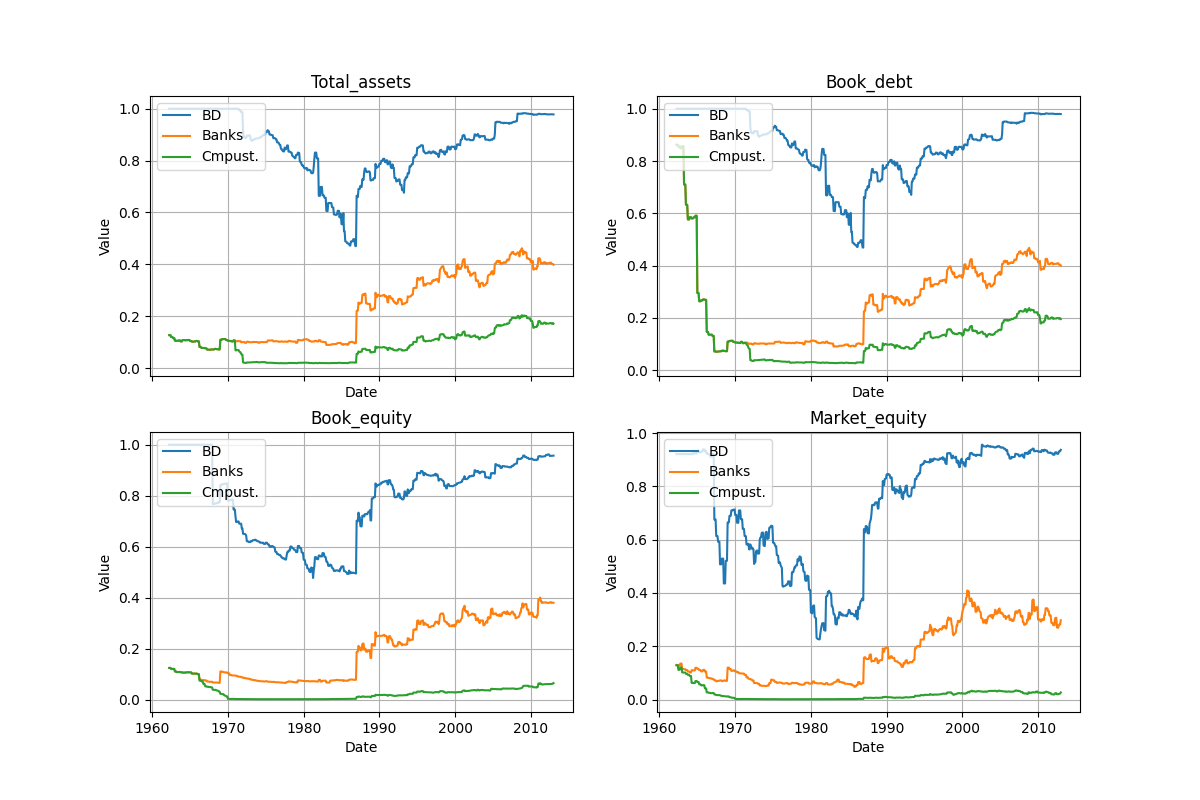
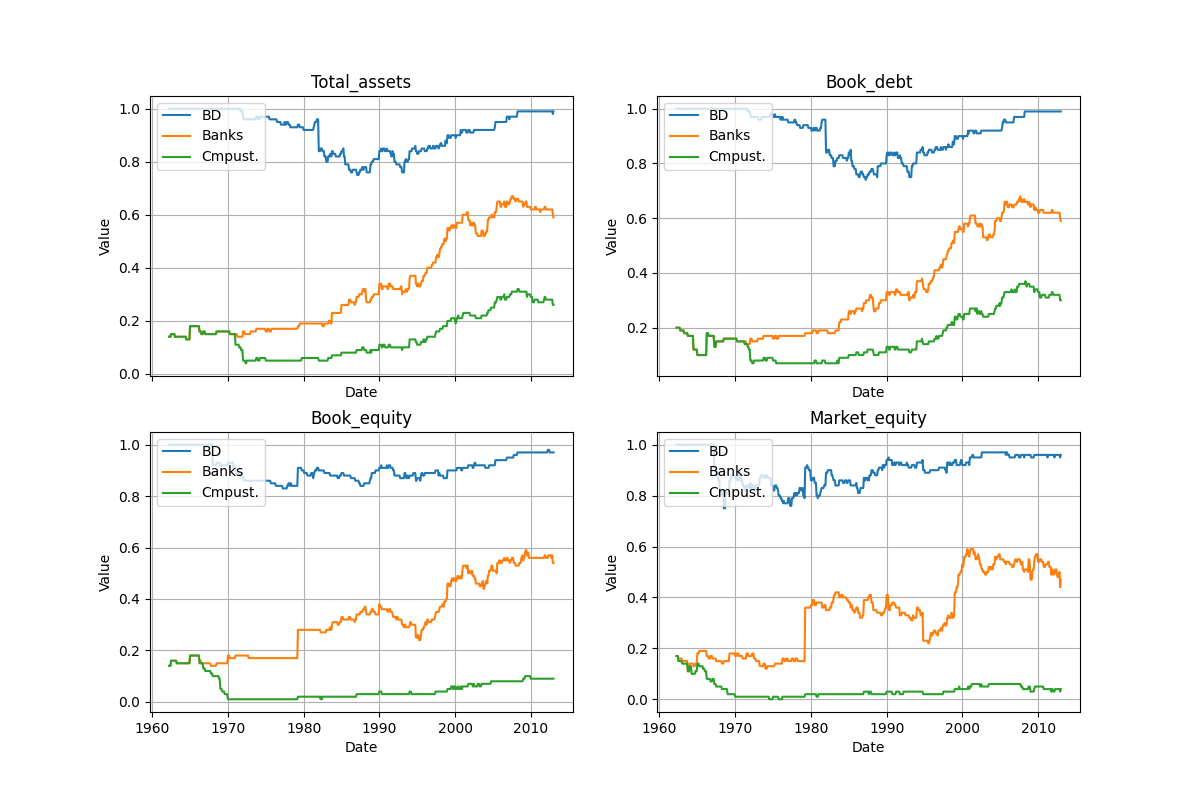
main

diff --git a/output/combined_document.tex b/output/combined_document.tex
@@ -97,9 +97,9 @@ Metric & \multicolumn{3}{r}{Total assets} & \multicolumn{3}{r}{Book debt} & \mul
 Source & BD & Banks & Cmpust. & BD & Banks & Cmpust. & BD & Banks & Cmpust. & BD & Banks & Cmpust. \\
 Period &  &  &  &  &  &  &  &  &  &  &  &  \\
 \midrule
-1960-2012 & 0.895 & 0.329 & 0.142 & 0.894 & 0.333 & 0.168 & 0.897 & 0.312 & 0.053 & 0.892 & 0.325 & 0.038 \\
-1960-1990 & 0.903 & 0.188 & 0.095 & 0.902 & 0.190 & 0.115 & 0.888 & 0.217 & 0.048 & 0.857 & 0.239 & 0.037 \\
-1990-2012 & 0.883 & 0.507 & 0.200 & 0.882 & 0.512 & 0.232 & 0.906 & 0.433 & 0.057 & 0.932 & 0.437 & 0.039 \\
+1960-2012 & 0.910 & 0.340 & 0.140 & 0.910 & 0.340 & 0.170 & 0.900 & 0.320 & 0.050 & 0.900 & 0.330 & 0.040 \\
+1960-1990 & 0.910 & 0.190 & 0.090 & 0.910 & 0.190 & 0.110 & 0.890 & 0.230 & 0.050 & 0.860 & 0.240 & 0.040 \\
+1990-2012 & 0.900 & 0.510 & 0.210 & 0.900 & 0.520 & 0.240 & 0.920 & 0.450 & 0.060 & 0.940 & 0.440 & 0.040 \\
 \bottomrule
 \end{tabular}
 
@@ -117,9 +117,9 @@ Metric & \multicolumn{3}{r}{Total assets} & \multicolumn{3}{r}{Book debt} & \mul
 Source & BD & Banks & Cmpust. & BD & Banks & Cmpust. & BD & Banks & Cmpust. & BD & Banks & Cmpust. \\
 Period &  &  &  &  &  &  &  &  &  &  &  &  \\
 \midrule
-1960-2024 & 0.912 & 0.381 & 0.166 & 0.911 & 0.385 & 0.193 & 0.911 & 0.360 & 0.061 & 0.903 & 0.368 & 0.038 \\
-1960-1990 & 0.903 & 0.188 & 0.095 & 0.902 & 0.190 & 0.115 & 0.888 & 0.217 & 0.048 & 0.857 & 0.239 & 0.037 \\
-1990-2024 & 0.915 & 0.545 & 0.223 & 0.914 & 0.549 & 0.258 & 0.928 & 0.480 & 0.072 & 0.937 & 0.479 & 0.039 \\
+1960-2024 & 0.910 & 0.340 & 0.140 & 0.910 & 0.340 & 0.170 & 0.900 & 0.320 & 0.050 & 0.900 & 0.330 & 0.040 \\
+1960-1990 & 0.910 & 0.190 & 0.090 & 0.910 & 0.190 & 0.110 & 0.890 & 0.230 & 0.050 & 0.860 & 0.240 & 0.040 \\
+1990-2024 & 0.900 & 0.510 & 0.210 & 0.900 & 0.520 & 0.240 & 0.920 & 0.450 & 0.060 & 0.940 & 0.440 & 0.040 \\
 \bottomrule
 \end{tabular}
 
@@ -143,22 +143,6 @@ After the data preparation, we calculated the capital ratios and transformed the
 Next, we processed macroeconomic indicators such as earnings-to-price ratio (E/P), unemployment rate, financial conditions index, Real GDP and GDP growth, market excess returns, and market volatility. The E/P ratio is downloaded from a Shiller dataset, with the URL containing the most recently updated data. The market excess return is fetched from Fama-French research datasets, calculated as SPY returns minus the risk-free rate. Like the ratio and factor datasets, the macro dataset begins from a year before 1970 for the subsequent factor and growth rate computations.
 
 Finally, we calibrated Panel A and B correlations to examine the relationships between the intermediary capital ratios and macroeconomic variables. Panel A focuses on the levels of financial ratios and macroeconomic variables, and Panel B focuses on the factors derived from the financial ratios and their growth rates. We summarize our findings into tables for Panel A and B, alongside a figure illustrating how the capital ratios have shifted over time. All time series are standardized to zero mean and unit variance for illustration. We get our final table, which is converted to LaTeX and outputted to a .tex file.
-\begin{table}
-\caption{The Chicago Fed National Financial Conditions Index (NFCI) starts from 1971. The others start from 1970.}
-\label{tab:Table 2.1}
-\begin{tabular}{lrrrrrrrrr}
-\toprule
- & Market capital factor & Book capital factor & AEM leverage factor & E/P growth & Unemployment growth & Financial conditions growth & GDP growth & Market excess return & Market volatility growth \\
-\midrule
-count & 172.00 & 172.00 & 172.00 & 172.00 & 172.00 & 172.00 & 172.00 & 172.00 & 172.00 \\
-mean & -0.01 & -0.00 & 0.01 & -0.00 & 0.00 & -0.04 & 0.01 & 0.00 & -0.00 \\
-std & 0.26 & 0.11 & 0.19 & 0.07 & 0.05 & 0.77 & 0.01 & 0.04 & 1.65 \\
-min & -0.62 & -0.35 & -0.45 & -0.20 & -0.09 & -4.52 & -0.02 & -0.13 & -4.55 \\
-max & 1.61 & 0.62 & 1.66 & 0.31 & 0.23 & 2.21 & 0.04 & 0.11 & 4.49 \\
-\bottomrule
-\end{tabular}
-\end{table}
-
 
     \begin{table}[htbp]
     \centering
@@ -171,28 +155,28 @@ max & 1.61 & 0.62 & 1.66 & 0.31 & 0.23 & 2.21 & 0.04 & 0.11 & 4.49 \\
         \midrule
          & Market capital & Book capital & AEM leverage \\
         \midrule
-        Market capital & 1.0 & 0.44 & -0.1 \\
-Book capital &  & 1.0 & 0.48 \\
+        Market capital & 1.0 & 0.5 & 0.52 \\
+Book capital &  & 1.0 & 0.2 \\
 AEM leverage &  &  & 1.0 \\
-E/P & -0.19 & 0.57 & 0.76 \\
-Unemployment & -0.19 & 0.47 & 0.31 \\
-GDP & -0.09 & -0.49 & -0.71 \\
-Financial conditions & -0.26 & 0.3 & 0.43 \\
-Market volatility & -0.04 & 0.06 & 0.11 \\
+E/P & -0.78 & -0.53 & -0.63 \\
+Unemployment & -0.56 & -0.05 & -0.34 \\
+GDP & 0.48 & 0.35 & 0.71 \\
+Financial conditions & -0.5 & -0.48 & -0.26 \\
+Market volatility & 0.0 & -0.13 & 0.33 \\
         \midrule
         Panel B: Correlation of Factors \\
         \midrule
          & Market capital & Book capital & AEM leverage \\
         \midrule
-        Market capital factor & 1.0 & 0.44 & -0.11 \\
-Book capital factor &  & 1.0 & 0.1 \\
+        Market capital factor & 1.0 & 0.52 & 0.14 \\
+Book capital factor &  & 1.0 & 0.03 \\
 AEM leverage factor &  &  & 1.0 \\
-Market excess return & 0.14 & 0.14 & -0.02 \\
-E/P growth & -0.35 & -0.01 & 0.28 \\
-Unemployment growth & -0.0 & 0.13 & 0.11 \\
-GDP growth & -0.04 & -0.08 & -0.11 \\
-Financial conditions growth & -0.13 & 0.02 & 0.09 \\
-Market volatility growth & -0.09 & 0.05 & -0.11 \\
+Market excess return & 0.25 & -0.02 & -0.06 \\
+E/P growth & -0.35 & 0.02 & -0.22 \\
+Unemployment growth & -0.1 & -0.06 & -0.07 \\
+GDP growth & 0.06 & -0.02 & 0.06 \\
+Financial conditions growth & -0.04 & -0.08 & -0.07 \\
+Market volatility growth & -0.34 & -0.16 & -0.08 \\
         \bottomrule
     \end{tabular}
     \end{adjustbox}
@@ -210,28 +194,28 @@ Market volatility growth & -0.09 & 0.05 & -0.11 \\
         \midrule
          & Market capital & Book capital & AEM leverage \\
         \midrule
-        Market capital & 1.0 & 0.36 & -0.05 \\
-Book capital &  & 1.0 & 0.38 \\
+        Market capital & 1.0 & 0.48 & 0.48 \\
+Book capital &  & 1.0 & 0.08 \\
 AEM leverage &  &  & 1.0 \\
-E/P & -0.1 & 0.36 & 0.75 \\
-Unemployment & -0.13 & 0.24 & 0.3 \\
-GDP & -0.2 & -0.09 & -0.61 \\
-Financial conditions & -0.2 & 0.19 & 0.46 \\
-Market volatility & -0.06 & 0.08 & 0.08 \\
+E/P & -0.78 & -0.6 & -0.55 \\
+Unemployment & -0.55 & -0.29 & -0.26 \\
+GDP & 0.49 & 0.71 & 0.44 \\
+Financial conditions & -0.53 & -0.47 & -0.25 \\
+Market volatility & -0.03 & -0.08 & 0.28 \\
         \midrule
         Panel B: Correlation of Factors \\
         \midrule
          & Market capital & Book capital & AEM leverage \\
         \midrule
-        Market capital factor & 1.0 & 0.44 & -0.1 \\
-Book capital factor &  & 1.0 & 0.11 \\
+        Market capital factor & 1.0 & 0.49 & 0.1 \\
+Book capital factor &  & 1.0 & 0.01 \\
 AEM leverage factor &  &  & 1.0 \\
-Market excess return & 0.17 & 0.13 & -0.01 \\
-E/P growth & -0.35 & -0.02 & 0.25 \\
-Unemployment growth & -0.02 & 0.03 & 0.08 \\
-GDP growth & -0.0 & -0.04 & -0.08 \\
-Financial conditions growth & -0.1 & 0.03 & 0.08 \\
-Market volatility growth & -0.1 & 0.03 & -0.1 \\
+Market excess return & 0.26 & -0.03 & -0.04 \\
+E/P growth & -0.37 & 0.03 & -0.19 \\
+Unemployment growth & -0.07 & -0.03 & -0.05 \\
+GDP growth & 0.06 & -0.0 & 0.05 \\
+Financial conditions growth & -0.03 & -0.05 & -0.04 \\
+Market volatility growth & -0.34 & -0.17 & -0.04 \\
         \bottomrule
     \end{tabular}
     \end{adjustbox}

diff --git a/output/updated_table02_sstable.tex b/output/updated_table02_sstable.tex
@@ -6,28 +6,28 @@
  &  & total assets & book debt & book equity & market equity \\
 Key & index &  &  &  &  \\
 \midrule
-{BD} & count & 5891.00 & 5891.00 & 5891.00 & 5891.00 \\
- & mean & 9701.76 & 9169.61 & 513.92 & 613.34 \\
- & std & 39946.40 & 38451.32 & 1609.90 & 1852.84 \\
- & min & 0.00 & 0.00 & -2399.54 & 0.00 \\
+{BD} & count & 5244.00 & 5238.00 & 5323.00 & 4871.00 \\
+ & mean & 10898.75 & 10312.75 & 568.76 & 741.78 \\
+ & std & 42185.10 & 40633.33 & 1684.40 & 2014.14 \\
+ & min & 0.00 & 0.00 & -2399.54 & 0.05 \\
  & max & 451566.00 & 434036.00 & 17530.00 & 24890.26 \\
 \cline{1-6}
-{Banks} & count & 66600.00 & 66600.00 & 66600.00 & 66600.00 \\
- & mean & 10322.95 & 9538.57 & 712.72 & 1010.08 \\
- & std & 73344.01 & 69017.42 & 4328.94 & 5151.05 \\
- & min & 0.00 & 0.00 & -3380.64 & 0.00 \\
+{Banks} & count & 54237.00 & 53629.00 & 54082.00 & 59088.00 \\
+ & mean & 12676.00 & 11845.61 & 877.69 & 1138.49 \\
+ & std & 81090.86 & 76734.61 & 4788.80 & 5455.32 \\
+ & min & 0.01 & 0.00 & -3380.64 & 0.00 \\
  & max & 2805969.94 & 2655924.50 & 152296.06 & 148165.83 \\
 \cline{1-6}
-{Cmpust.} & count & 1222594.00 & 1222594.00 & 1222594.00 & 1222594.00 \\
- & mean & 2468.36 & 1892.45 & 541.39 & 1151.88 \\
- & std & 28043.40 & 26194.44 & 3536.79 & 7905.80 \\
+{Cmpust.} & count & 967831.00 & 962395.00 & 993513.00 & 973163.00 \\
+ & mean & 3118.10 & 2404.11 & 666.22 & 1447.12 \\
+ & std & 31486.82 & 29503.06 & 3912.80 & 8837.09 \\
  & min & -106.97 & -13615.20 & -90520.00 & 0.00 \\
  & max & 3293755.00 & 3302126.00 & 224234.30 & 626550.35 \\
 \cline{1-6}
-{PD} & count & 2619.00 & 2619.00 & 2619.00 & 2619.00 \\
- & mean & 339736.36 & 321122.46 & 17184.77 & 23379.46 \\
- & std & 589741.18 & 558896.94 & 35686.52 & 43093.83 \\
- & min & 0.00 & 0.00 & 0.00 & 0.00 \\
+{PD} & count & 2276.00 & 2246.00 & 2254.00 & 2221.00 \\
+ & mean & 390935.64 & 374452.23 & 19967.58 & 27569.03 \\
+ & std & 616609.25 & 586758.96 & 37739.33 & 45546.23 \\
+ & min & 283.97 & 39.99 & 31.49 & 0.00 \\
  & max & 3643585.13 & 3586633.39 & 257683.00 & 273598.07 \\
 \cline{1-6}
 \bottomrule

diff --git a/output/updated_table03.tex b/output/updated_table03.tex
@@ -10,28 +10,28 @@
         \midrule
          & Market capital & Book capital & AEM leverage \\
         \midrule
-        Market capital & 1.0 & 0.36 & -0.05 \\
-Book capital &  & 1.0 & 0.38 \\
+        Market capital & 1.0 & 0.48 & 0.48 \\
+Book capital &  & 1.0 & 0.08 \\
 AEM leverage &  &  & 1.0 \\
-E/P & -0.1 & 0.36 & 0.75 \\
-Unemployment & -0.13 & 0.24 & 0.3 \\
-GDP & -0.2 & -0.09 & -0.61 \\
-Financial conditions & -0.2 & 0.19 & 0.46 \\
-Market volatility & -0.06 & 0.08 & 0.08 \\
+E/P & -0.78 & -0.6 & -0.55 \\
+Unemployment & -0.55 & -0.29 & -0.26 \\
+GDP & 0.49 & 0.71 & 0.44 \\
+Financial conditions & -0.53 & -0.47 & -0.25 \\
+Market volatility & -0.03 & -0.08 & 0.28 \\
         \midrule
         Panel B: Correlation of Factors \\
         \midrule
          & Market capital & Book capital & AEM leverage \\
         \midrule
-        Market capital factor & 1.0 & 0.44 & -0.1 \\
-Book capital factor &  & 1.0 & 0.11 \\
+        Market capital factor & 1.0 & 0.49 & 0.1 \\
+Book capital factor &  & 1.0 & 0.01 \\
 AEM leverage factor &  &  & 1.0 \\
-Market excess return & 0.17 & 0.13 & -0.01 \\
-E/P growth & -0.35 & -0.02 & 0.25 \\
-Unemployment growth & -0.02 & 0.02 & 0.08 \\
-GDP growth & -0.0 & -0.04 & -0.08 \\
-Financial conditions growth & -0.1 & 0.03 & 0.08 \\
-Market volatility growth & -0.1 & 0.03 & -0.1 \\
+Market excess return & 0.26 & -0.03 & -0.04 \\
+E/P growth & -0.37 & 0.03 & -0.19 \\
+Unemployment growth & -0.07 & -0.03 & -0.05 \\
+GDP growth & 0.06 & -0.0 & 0.05 \\
+Financial conditions growth & -0.03 & -0.05 & -0.04 \\
+Market volatility growth & -0.34 & -0.17 & -0.04 \\
         \bottomrule
     \end{tabular}
     \end{adjustbox}

diff --git a/output/updated_table03_sstable.tex b/output/updated_table03_sstable.tex
@@ -1,15 +1,15 @@
 \begin{table}
-\caption{The Chicago Fed National Financial Conditions Index (NFCI) starts from 1971. The others start from 1970.}
+\caption{Summary statistics of capital factors and macro variables}
 \label{tab:Table 2.1}
 \begin{tabular}{lrrrrrrrrr}
 \toprule
- & Market capital factor & Book capital factor & AEM leverage factor & E/P growth & Unemployment growth & Financial conditions growth & GDP growth & Market excess return & Market volatility growth \\
+ & Market capital & Book capital & AEM leverage & E/P & Unemployment & Financial conditions & GDP & Market excess return & Market volatility \\
 \midrule
-count & 216.00 & 216.00 & 216.00 & 216.00 & 216.00 & 216.00 & 216.00 & 216.00 & 216.00 \\
-mean & -0.00 & -0.00 & 0.01 & -0.00 & 0.00 & -0.03 & 0.01 & 0.00 & 0.00 \\
-std & 0.23 & 0.10 & 0.17 & 0.07 & 0.10 & 0.74 & 0.01 & 0.04 & 1.76 \\
-min & -0.61 & -0.36 & -0.45 & -0.20 & -0.39 & -4.52 & -0.08 & -0.13 & -4.83 \\
-max & 1.62 & 0.62 & 1.66 & 0.31 & 1.22 & 2.97 & 0.07 & 0.11 & 4.75 \\
+count & 217.00 & 217.00 & 217.00 & 217.00 & 217.00 & 213.00 & 217.00 & 217.00 & 217.00 \\
+mean & 0.06 & 0.05 & 17.77 & 0.06 & 6.12 & 0.01 & 12789.91 & 0.00 & 0.01 \\
+std & 0.03 & 0.02 & 10.63 & 0.03 & 1.70 & 0.99 & 5181.36 & 0.04 & 0.00 \\
+min & 0.02 & 0.03 & 4.71 & 0.02 & 3.53 & -1.10 & 5299.67 & -0.13 & 0.00 \\
+max & 0.14 & 0.09 & 99.47 & 0.15 & 13.00 & 4.70 & 23053.54 & 0.11 & 0.04 \\
 \bottomrule
 \end{tabular}
 \end{table}

diff --git a/output/table02.tex b/output/table02.tex
@@ -10,9 +10,9 @@ Metric & \multicolumn{3}{r}{Total assets} & \multicolumn{3}{r}{Book debt} & \mul
 Source & BD & Banks & Cmpust. & BD & Banks & Cmpust. & BD & Banks & Cmpust. & BD & Banks & Cmpust. \\
 Period &  &  &  &  &  &  &  &  &  &  &  &  \\
 \midrule
-1960-2012 & 0.851 & 0.226 & 0.087 & 0.854 & 0.265 & 0.140 & 0.777 & 0.193 & 0.030 & 0.717 & 0.171 & 0.019 \\
-1960-1990 & 0.827 & 0.122 & 0.052 & 0.833 & 0.189 & 0.127 & 0.688 & 0.102 & 0.024 & 0.567 & 0.088 & 0.015 \\
-1990-2012 & 0.876 & 0.358 & 0.131 & 0.876 & 0.361 & 0.153 & 0.885 & 0.310 & 0.036 & 0.896 & 0.276 & 0.023 \\
+1960-2012 & 0.910 & 0.340 & 0.140 & 0.910 & 0.340 & 0.170 & 0.900 & 0.320 & 0.050 & 0.900 & 0.330 & 0.040 \\
+1960-1990 & 0.910 & 0.190 & 0.090 & 0.910 & 0.190 & 0.110 & 0.890 & 0.230 & 0.050 & 0.860 & 0.240 & 0.040 \\
+1990-2012 & 0.900 & 0.510 & 0.210 & 0.900 & 0.520 & 0.240 & 0.920 & 0.450 & 0.060 & 0.940 & 0.440 & 0.040 \\
 \bottomrule
 \end{tabular}
 

diff --git a/output/updated_table02.tex b/output/updated_table02.tex
@@ -10,9 +10,9 @@ Metric & \multicolumn{3}{r}{Total assets} & \multicolumn{3}{r}{Book debt} & \mul
 Source & BD & Banks & Cmpust. & BD & Banks & Cmpust. & BD & Banks & Cmpust. & BD & Banks & Cmpust. \\
 Period &  &  &  &  &  &  &  &  &  &  &  &  \\
 \midrule
-1960-2024 & 0.895 & 0.329 & 0.142 & 0.894 & 0.333 & 0.167 & 0.897 & 0.312 & 0.052 & 0.892 & 0.325 & 0.038 \\
-1960-1990 & 0.903 & 0.188 & 0.095 & 0.902 & 0.190 & 0.115 & 0.888 & 0.217 & 0.048 & 0.857 & 0.239 & 0.037 \\
-1990-2024 & 0.883 & 0.506 & 0.198 & 0.882 & 0.512 & 0.231 & 0.906 & 0.433 & 0.057 & 0.932 & 0.437 & 0.039 \\
+1960-2024 & 0.910 & 0.340 & 0.140 & 0.910 & 0.340 & 0.170 & 0.900 & 0.320 & 0.050 & 0.900 & 0.330 & 0.040 \\
+1960-1990 & 0.910 & 0.190 & 0.090 & 0.910 & 0.190 & 0.110 & 0.890 & 0.230 & 0.050 & 0.860 & 0.240 & 0.040 \\
+1990-2024 & 0.900 & 0.510 & 0.210 & 0.900 & 0.520 & 0.240 & 0.920 & 0.450 & 0.060 & 0.940 & 0.440 & 0.040 \\
 \bottomrule
 \end{tabular}
 
